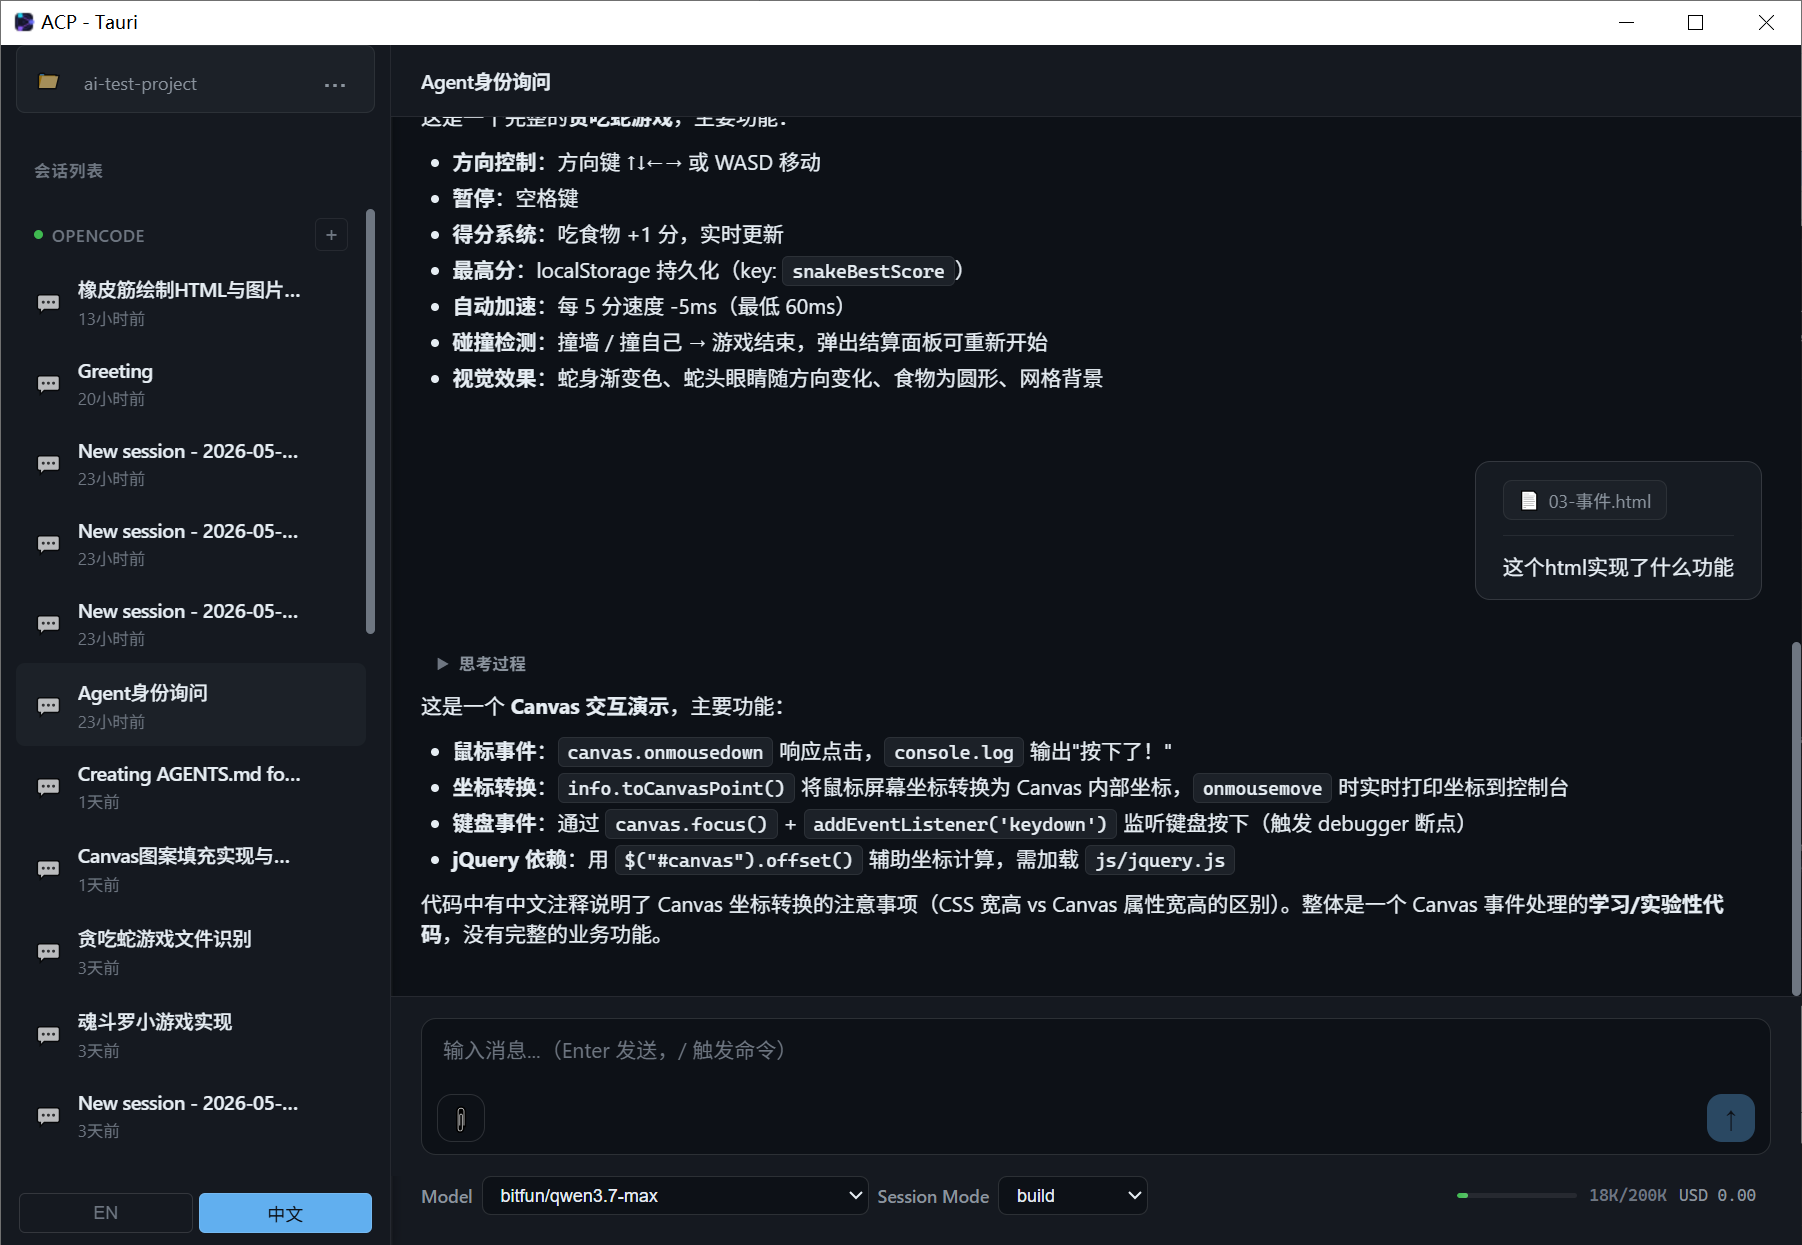
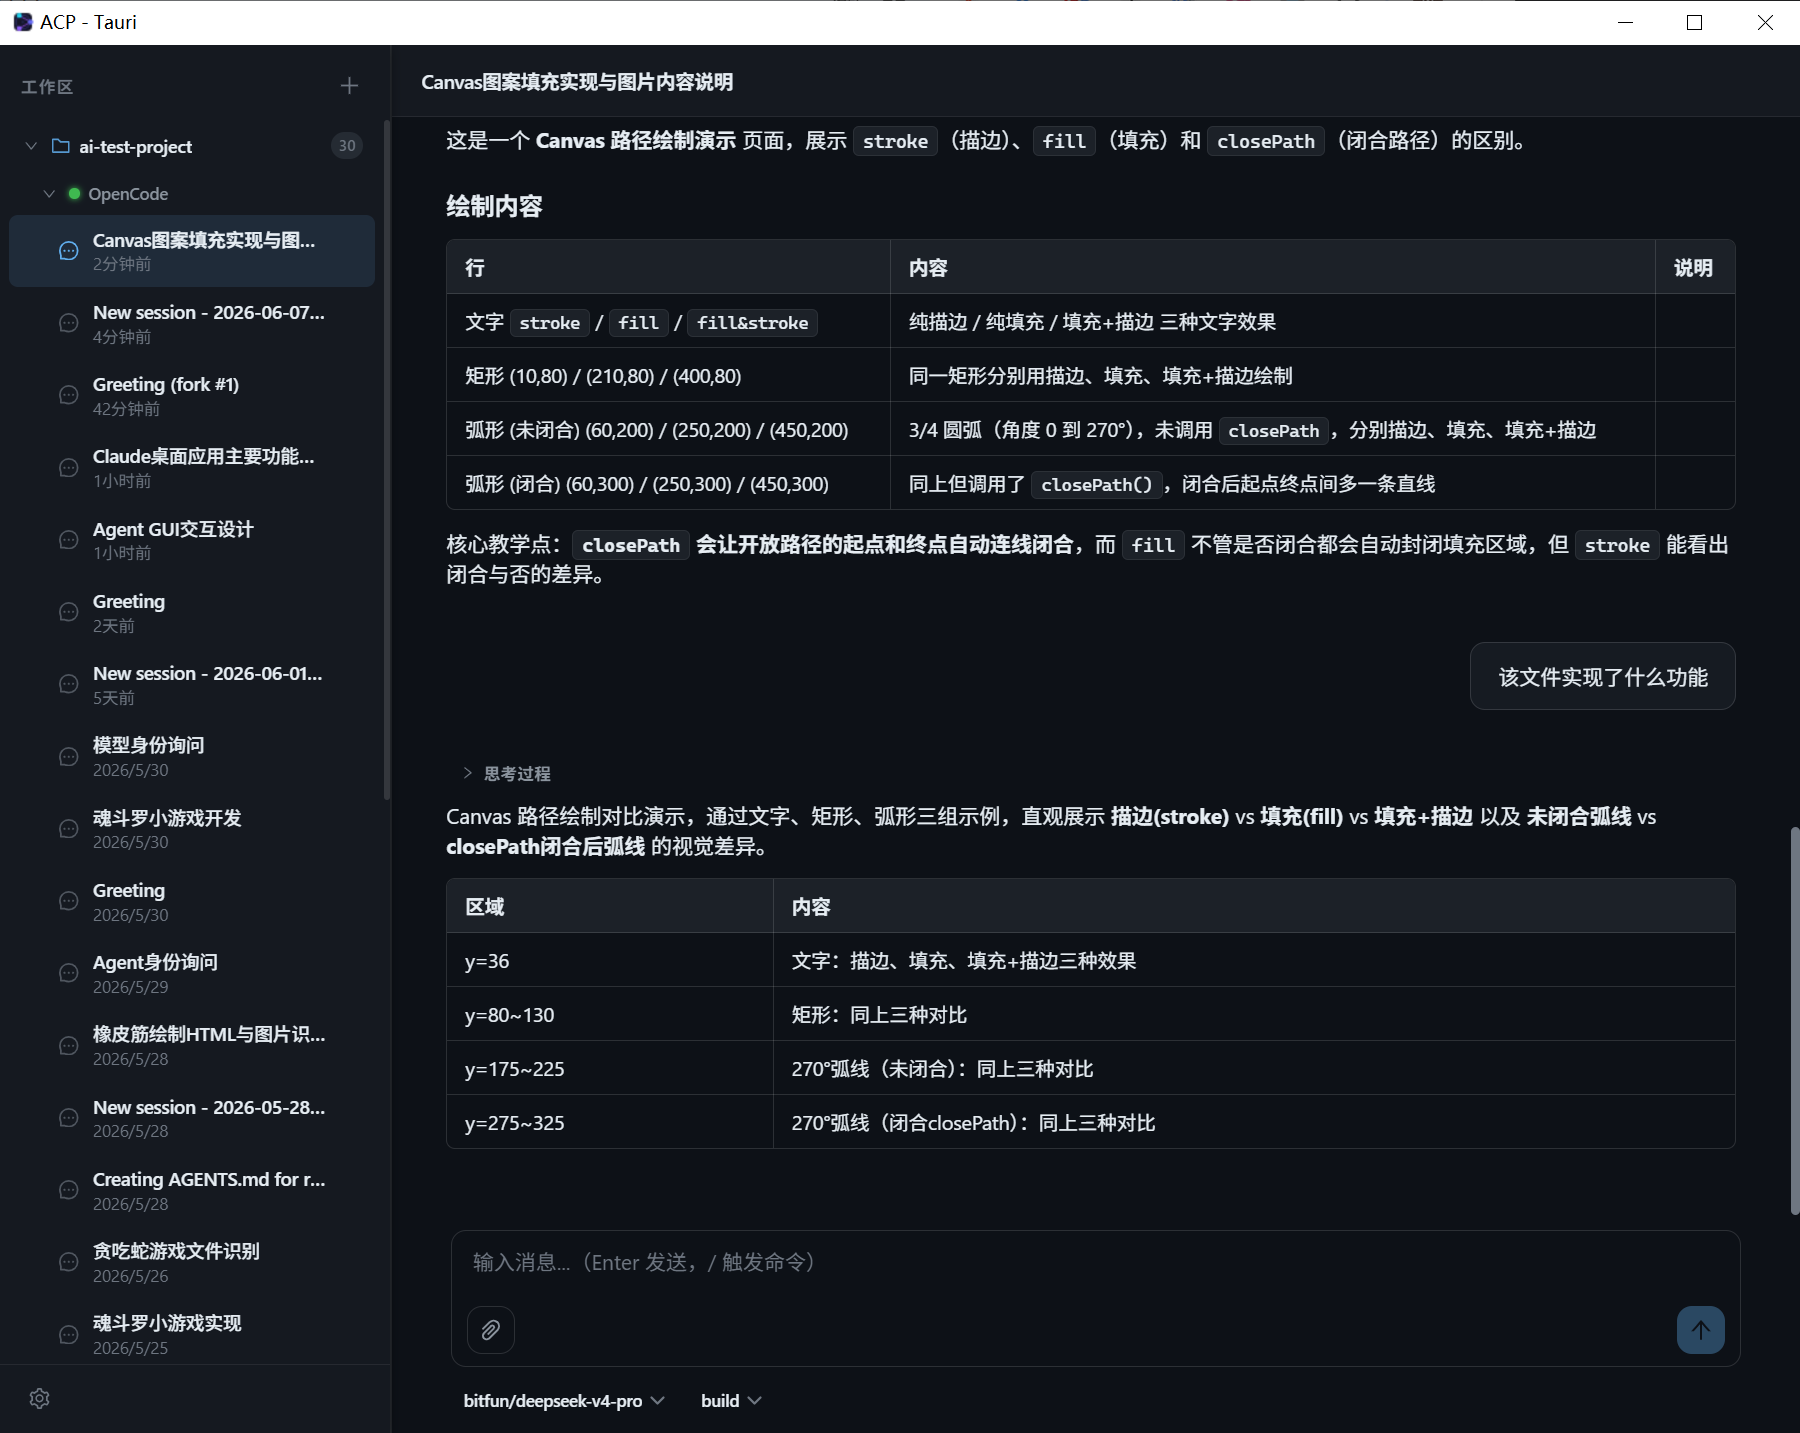
add fork

diff --git a/packages/react/src/components/session-list/SessionList.tsx b/packages/react/src/components/session-list/SessionList.tsx
@@ -1,12 +1,12 @@
 import { useCallback, useMemo, useRef, useState } from 'react';
-import { CloseOutlined, MessageOutlined, FolderOutlined, FolderOpenOutlined, PlusOutlined, RightOutlined } from '@ant-design/icons';
+import { CloseOutlined, ForkOutlined, MessageOutlined, FolderOutlined, FolderOpenOutlined, PlusOutlined, RightOutlined } from '@ant-design/icons';
 import { useStore } from 'zustand/react';
 import { sessionStore } from '@acp-components/core';
 import { useSessions } from '../../hooks/useSessions';
 import { useAcpStore } from '../../hooks/useAcpStore';
 import { useI18n } from '../../i18n';
 import type { SessionMeta, WorkspaceState } from '@acp-components/core';
-import type { SessionId } from '@agentclientprotocol/sdk';
+import type { SessionId } from '@acp-components/core';
 import styles from './session-list.module.scss';
 
 // ---------------------------------------------------------------------------
@@ -71,8 +71,11 @@ function SessionItem({ session, isActive }: {
 }) {
   const { t } = useI18n();
   const formatTime = useFormatTime();
-  const { selectSession, closeSession } = useSessions();
+  const { selectSession, deleteSession, forkSession, setActiveSession } = useSessions();
   const status = useSessionStatus(session.id);
+  const supportsFork = useAcpStore((s) => !!s.agents.get(session.agentId)?.capabilities?.sessionCapabilities?.fork);
+  const supportsDelete = useAcpStore((s) => !!s.agents.get(session.agentId)?.capabilities?.sessionCapabilities?.delete);
+  const [isForking, setIsForking] = useState(false);
 
   return (
     <div
@@ -90,14 +93,39 @@ function SessionItem({ session, isActive }: {
         </div>
         <div className={styles.acpSessionItemMeta}>{formatTime(session.updatedAt)}</div>
       </div>
-      <button
-        className={styles.acpSessionItemDelete}
-        onClick={(e) => { e.stopPropagation(); void closeSession(session.id); }}
-        aria-label={t('sessionList.closeSession')}
-        title={t('sessionList.closeSession')}
-      >
-        <CloseOutlined />
-      </button>
+      {supportsFork && (
+        <button
+          className={styles.acpSessionItemFork}
+          onClick={async (e) => {
+            e.stopPropagation();
+            if (isForking) return;
+            setIsForking(true);
+            try {
+              const newId = await forkSession(session.id);
+              setActiveSession(newId);
+            } catch (err) {
+              console.error('Failed to fork session:', err);
+            } finally {
+              setIsForking(false);
+            }
+          }}
+          disabled={isForking}
+          aria-label={t('sessionList.forkSession')}
+          title={t('sessionList.forkSession')}
+        >
+          <ForkOutlined />
+        </button>
+      )}
+      {supportsDelete && (
+        <button
+          className={styles.acpSessionItemDelete}
+          onClick={(e) => { e.stopPropagation(); void deleteSession(session.id); }}
+          aria-label={t('sessionList.deleteSession')}
+          title={t('sessionList.deleteSession')}
+        >
+          <CloseOutlined />
+        </button>
+      )}
     </div>
   );
 }

diff --git a/packages/core/src/index.ts b/packages/core/src/index.ts
@@ -10,7 +10,7 @@ export { createAcpProvider } from './provider';
 export type { MultiAgentProviderOptions, MultiAgentProviderInstance } from './provider';
 export { createFileSystemProvider } from './fileSystem/provider';
 export type { FileSystemProviderOptions, FileSystemProviderInstance } from './fileSystem/provider';
-export { createSession, loadSession, selectSession, closeSession, refreshSessions, loadMoreSessions, setSessionConfigOption, authenticate, authenticateWithEnv } from './actions/sessions';
+export { createSession, loadSession, selectSession, closeSession, deleteSession, forkSession, refreshSessions, loadMoreSessions, setSessionConfigOption, authenticate, authenticateWithEnv } from './actions/sessions';
 export { sendPrompt, cancelPrompt } from './actions/prompt';
 export { respondToPermission, denyPermission } from './actions/permission';
 export { callExtMethod, sendExtNotification } from './actions/extensions';
@@ -36,4 +36,5 @@ export type {
   DirectoryReadHandler,
   FileTreeWatchCallbacks,
 } from './types';
-export type { ContentBlock, SessionId, SessionInfo, StopReason, ToolCall, ToolCallUpdate, ToolCallContent, AgentCapabilities, SessionUpdate, ClientCapabilities, CreateTerminalRequest, TerminalOutputResponse, WaitForTerminalExitResponse, TerminalExitStatus } from './types';
+export type { ContentBlock, SessionId, SessionInfo, StopReason, ToolCall, ToolCallUpdate, ToolCallContent, AgentCapabilities, SessionUpdate, ClientCapabilities, CreateTerminalRequest, TerminalOutputResponse, WaitForTerminalExitResponse, TerminalExitStatus, PlanEntry, AuthMethod, AvailableCommand, PromptResponse, UsageUpdate, SessionConfigOption, PromptCapabilities, SessionConfigSelectOptions, SessionConfigSelectGroup, AuthMethodEnvVar, ToolCallLocation, ToolKind } from './types';
+export { RequestError } from './types';

diff --git a/packages/core/src/actions/sessions.ts b/packages/core/src/actions/sessions.ts
@@ -15,6 +15,24 @@ export async function createSession(client: AcpClient, agentId: string, cwd: str
   return res.sessionId;
 }
 
+export async function forkSession(client: AcpClient, sourceSessionId: SessionId): Promise<SessionId> {
+  const cwd = findWorkspaceBySession(acpStore.getState().workspaces, sourceSessionId);
+  if (!cwd) throw new Error(`Source session ${sourceSessionId} not found in any workspace`);
+
+  const ws = acpStore.getState().workspaces.get(cwd);
+  const sourceMeta = ws?.sessions.get(sourceSessionId);
+  if (!sourceMeta) throw new Error(`Source session ${sourceSessionId} not found`);
+
+  const res = await client.forkSession(sourceSessionId, cwd);
+  const meta: SessionMeta = { id: res.sessionId, cwd, agentId: sourceMeta.agentId, loaded: true };
+  acpStore.getState().addSession(meta);
+  sessionStore.getState().ensureSession(res.sessionId);
+  if (res.configOptions) {
+    sessionStore.getState().setConfigOptions(res.sessionId, res.configOptions);
+  }
+  return res.sessionId;
+}
+
 export async function loadSession(client: AcpClient, sessionId: SessionId, cwd: string): Promise<void> {
   sessionStore.getState().resetSession(sessionId);
   const res = await client.loadSession(sessionId, cwd);
@@ -42,6 +60,12 @@ export async function selectSession(client: AcpClient, sessionId: SessionId): Pr
 
 export async function closeSession(client: AcpClient, sessionId: SessionId): Promise<void> {
   await client.closeSession(sessionId);
+  acpStore.getState().removeSession(sessionId);
+  sessionStore.getState().removeSession(sessionId);
+}
+
+export async function deleteSession(client: AcpClient, sessionId: SessionId): Promise<void> {
+  await client.deleteSession(sessionId);
   acpStore.getState().removeSession(sessionId);
   sessionStore.getState().removeSession(sessionId);
 }

diff --git a/packages/react/src/hooks/useSessions.ts b/packages/react/src/hooks/useSessions.ts
@@ -7,12 +7,14 @@ import {
   loadSession as coreLoadSession,
   selectSession as coreSelectSession,
   closeSession as coreCloseSession,
+  deleteSession as coreDeleteSession,
+  forkSession as coreForkSession,
   refreshSessions as coreRefreshSessions,
   loadMoreSessions as coreLoadMoreSessions,
   acpStore,
 } from '@acp-components/core';
-import type { SessionId } from '@agentclientprotocol/sdk';
-import { RequestError } from '@agentclientprotocol/sdk';
+import type { SessionId } from '@acp-components/core';
+import { RequestError } from '@acp-components/core';
 import type { AcpClient, SessionMeta } from '@acp-components/core';
 
 export function useSessions() {
@@ -72,6 +74,18 @@ export function useSessions() {
     return coreCloseSession(client, sessionId);
   }, [getClientForSession]);
 
+  const deleteSession = useCallback(async (sessionId: SessionId) => {
+    const client = getClientForSession(sessionId);
+    if (!client) return;
+    return coreDeleteSession(client, sessionId);
+  }, [getClientForSession]);
+
+  const forkSession = useCallback(async (sourceSessionId: SessionId) => {
+    const client = getClientForSession(sourceSessionId);
+    if (!client) throw new Error('No client for session');
+    return coreForkSession(client, sourceSessionId);
+  }, [getClientForSession]);
+
   const refreshSessions = useCallback(async (agentId: string, cwd: string) => {
     const client = getClient(agentId);
     if (!client) return;
@@ -107,6 +121,8 @@ export function useSessions() {
     createSession,
     loadSession,
     closeSession,
+    deleteSession,
+    forkSession,
     refreshSessions,
     loadMoreSessions,
   };

diff --git a/packages/core/src/client/AcpClient.ts b/packages/core/src/client/AcpClient.ts
@@ -30,6 +30,10 @@ import {
   type KillTerminalRequest,
   type CloseSessionRequest,
   type CloseSessionResponse,
+  type DeleteSessionRequest,
+  type DeleteSessionResponse,
+  type ForkSessionRequest,
+  type ForkSessionResponse,
   type AuthenticateRequest,
   type AuthenticateResponse,
 } from '@agentclientprotocol/sdk';
@@ -288,6 +292,11 @@ export class AcpClient {
     return this.connection.newSession({ cwd, mcpServers });
   }
 
+  async forkSession(sessionId: string, cwd: string, mcpServers: ForkSessionRequest['mcpServers'] = []): Promise<ForkSessionResponse> {
+    if (!this.connection) throw new Error('Not connected');
+    return this.connection.unstable_forkSession({ sessionId, cwd, mcpServers });
+  }
+
   async prompt(sessionId: string, prompt: PromptRequest['prompt']): Promise<PromptResponse> {
     if (!this.connection) throw new Error('Not connected');
     return this.connection.prompt({ sessionId, prompt });
@@ -328,6 +337,12 @@ export class AcpClient {
     if (!this.connection) throw new Error('Not connected');
     const params: CloseSessionRequest = { sessionId };
     return this.connection.closeSession(params);
+  }
+
+  async deleteSession(sessionId: string): Promise<DeleteSessionResponse> {
+    if (!this.connection) throw new Error('Not connected');
+    const params: DeleteSessionRequest = { sessionId };
+    return this.connection.deleteSession(params);
   }
 
   async authenticate(methodId: string): Promise<AuthenticateResponse> {

diff --git a/packages/core/src/types/index.ts b/packages/core/src/types/index.ts
@@ -17,7 +17,18 @@ import type {
   TerminalExitStatus,
   PlanEntry,
   AuthMethod,
+  AvailableCommand,
+  PromptResponse,
+  UsageUpdate,
+  SessionConfigOption,
+  PromptCapabilities,
+  SessionConfigSelectOptions,
+  SessionConfigSelectGroup,
+  AuthMethodEnvVar,
+  ToolCallLocation,
+  ToolKind,
 } from '@agentclientprotocol/sdk';
+export { RequestError } from '@agentclientprotocol/sdk';
 import type { AcpTransport } from '../transport/types';
 
 export type ConnectionStatus = 'disconnected' | 'connecting' | 'connected' | 'error';
@@ -145,4 +156,4 @@ export interface FileTreeWatchCallbacks {
   onWorkspaceChanged: (cwd: string) => void;
 }
 
-export type { ContentBlock, SessionId, SessionInfo, SessionUpdate, StopReason, ToolCall, ToolCallUpdate, ToolCallContent, Implementation, AgentCapabilities, PermissionOption, ClientCapabilities, CreateTerminalRequest, TerminalOutputResponse, WaitForTerminalExitResponse, TerminalExitStatus, PlanEntry, AuthMethod };
+export type { ContentBlock, SessionId, SessionInfo, SessionUpdate, StopReason, ToolCall, ToolCallUpdate, ToolCallContent, Implementation, AgentCapabilities, PermissionOption, ClientCapabilities, CreateTerminalRequest, TerminalOutputResponse, WaitForTerminalExitResponse, TerminalExitStatus, PlanEntry, AuthMethod, AvailableCommand, PromptResponse, UsageUpdate, SessionConfigOption, PromptCapabilities, SessionConfigSelectOptions, SessionConfigSelectGroup, AuthMethodEnvVar, ToolCallLocation, ToolKind };

diff --git a/packages/react/src/components/session-list/session-list.module.scss b/packages/react/src/components/session-list/session-list.module.scss
@@ -137,6 +137,10 @@
   &:hover {
     background: var(--acp-color-bg-hover);
 
+    .acp-session-item__fork {
+      opacity: 1;
+    }
+
     .acp-session-item__delete {
       opacity: 1;
     }
@@ -240,6 +244,34 @@
     &:hover {
       color: var(--acp-color-error);
       background: var(--acp-color-error-muted);
+    }
+  }
+
+  &__fork {
+    opacity: 0;
+    flex-shrink: 0;
+    background: none;
+    border: none;
+    color: var(--acp-color-text-muted);
+    cursor: pointer;
+    padding: 3px;
+    border-radius: var(--acp-radius-xs);
+    font-size: 11px;
+    display: flex;
+    align-items: center;
+    justify-content: center;
+    transition: opacity var(--acp-duration-fast) var(--acp-ease-out),
+                color var(--acp-duration-fast) var(--acp-ease-out),
+                background var(--acp-duration-fast) var(--acp-ease-out);
+
+    &:hover {
+      color: var(--acp-color-accent);
+      background: var(--acp-color-accent-muted);
+    }
+
+    &:disabled {
+      opacity: 0.5;
+      cursor: not-allowed;
     }
   }
 }

diff --git a/packages/react/src/hooks/useSession.ts b/packages/react/src/hooks/useSession.ts
@@ -1,9 +1,19 @@
 import { useStore } from 'zustand/react';
 import { useMemo } from 'react';
 import { sessionStore } from '@acp-components/core';
-import type { SessionId } from '@agentclientprotocol/sdk';
+import type { Message, ToolCallState, PermissionRequest } from '@acp-components/core';
+import type { SessionId, PlanEntry, UsageUpdate, SessionConfigOption, AvailableCommand } from '@acp-components/core';
 
-export function useSession(sessionId: SessionId | null) {
+export function useSession(sessionId: SessionId | null): {
+  messages: Message[];
+  isStreaming: boolean;
+  pendingToolCalls: ToolCallState[];
+  pendingPermissions: PermissionRequest[];
+  plan: PlanEntry[];
+  usage: UsageUpdate | null;
+  configOptions: SessionConfigOption[];
+  availableCommands: AvailableCommand[];
+} {
   const sessions = useStore(sessionStore, (s) => s.sessions);
 
   const data = useMemo(() => {

diff --git a/packages/react/src/hooks/usePrompt.ts b/packages/react/src/hooks/usePrompt.ts
@@ -2,9 +2,12 @@ import { useCallback, useMemo } from 'react';
 import { useAcpContext } from '../context/AcpContext';
 import { useAcpStore } from './useAcpStore';
 import { sendPrompt, cancelPrompt, acpStore } from '@acp-components/core';
-import type { SessionId, ContentBlock } from '@agentclientprotocol/sdk';
+import type { SessionId, ContentBlock, PromptResponse } from '@acp-components/core';
 
-export function usePrompt(sessionId: SessionId | null) {
+export function usePrompt(sessionId: SessionId | null): {
+  send: (contentBlocks: ContentBlock[]) => Promise<PromptResponse | undefined>;
+  cancel: () => Promise<void>;
+} {
   const { getClient } = useAcpContext();
 
   const client = useMemo(() => {

diff --git a/packages/react/src/components/session-config-panel/SessionConfigPanel.tsx b/packages/react/src/components/session-config-panel/SessionConfigPanel.tsx
@@ -2,7 +2,7 @@ import { useSession } from '../../hooks/useSession';
 import { useAcpContext } from '../../context/AcpContext';
 import { useAcpStore } from '../../hooks/useAcpStore';
 import { setSessionConfigOption, acpStore } from '@acp-components/core';
-import type { SessionId, SessionConfigOption, SessionConfigSelectOptions, SessionConfigSelectGroup } from '@agentclientprotocol/sdk';
+import type { SessionId, SessionConfigOption, SessionConfigSelectOptions, SessionConfigSelectGroup } from '@acp-components/core';
 import { Select } from '../select';
 import type { SelectOption, SelectOptionGroup } from '../select';
 import styles from './session-config-panel.module.scss';

diff --git a/examples/server/src/index.ts b/examples/server/src/index.ts
@@ -5,8 +5,8 @@ import { readDirectory, watchWorkspace, readFileContent } from './fileSystem.js'
 
 const PORT = parseInt(process.env.ACP_PORT ?? '3100', 10);
 const HOST = process.env.ACP_HOST ?? '127.0.0.1';
-const AGENT_COMMAND = process.env.ACP_AGENT ?? 'opencode';
-const AGENT_ARGS = (process.env.ACP_AGENT_ARGS ?? 'acp').split(' ').filter(Boolean);
+const AGENT_COMMAND = process.env.ACP_AGENT ?? 'npx';
+const AGENT_ARGS = (process.env.ACP_AGENT_ARGS ?? 'opencode-ai@latest acp').split(' ').filter(Boolean);
 
 // ---------------------------------------------------------------------------
 // HTTP Server — serves file system API endpoints

diff --git a/packages/react/src/components/chat-view/ChatComposer.tsx b/packages/react/src/components/chat-view/ChatComposer.tsx
@@ -8,7 +8,7 @@ import {
 } from '@ant-design/icons';
 import { usePrompt } from '../../hooks/usePrompt';
 import { useAcpStore } from '../../hooks/useAcpStore';
-import type { SessionId, ContentBlock, AvailableCommand, PromptCapabilities } from '@agentclientprotocol/sdk';
+import type { SessionId, ContentBlock, AvailableCommand, PromptCapabilities } from '@acp-components/core';
 import { CommandPalette } from '../command-palette';
 import { useI18n } from '../../i18n';
 import styles from './chat-composer.module.scss';
